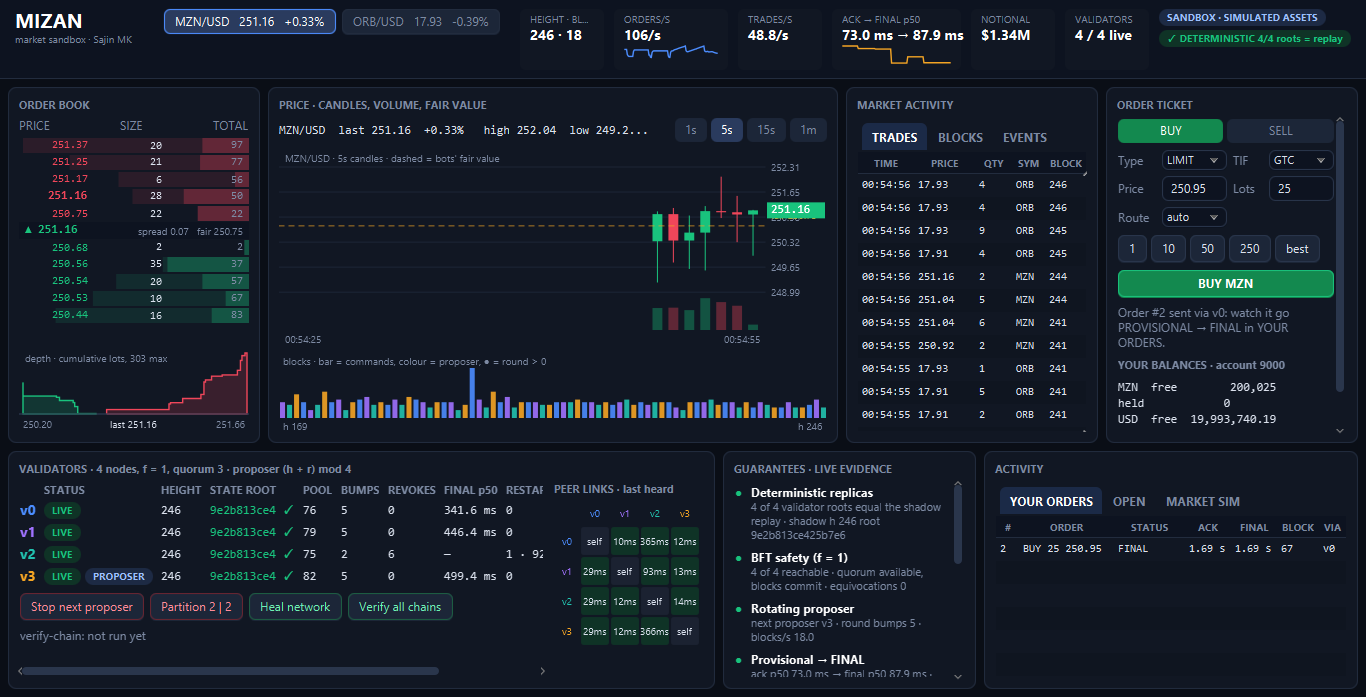
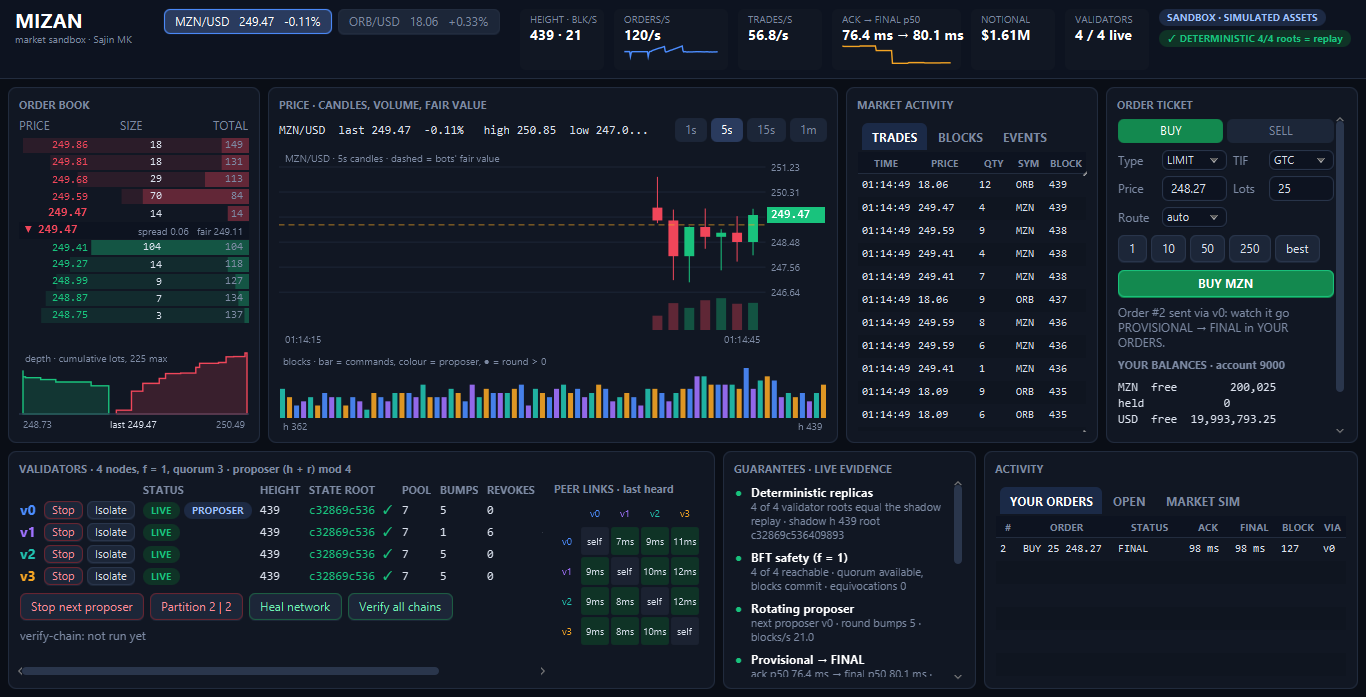
Self-test loop: build, planted regressions, sweeps, recovery, chaos, sandbox demo all pass

diff --git a/PROGRESS.md b/PROGRESS.md
@@ -191,6 +191,20 @@ Note: M2 landed as one commit ("Milestone 2 completed") rather than one commit p
 
 "A stranger runs the 4-node demo from the README" **needs a human**. Earlier gates were re-run in the final self-test loop (below).
 
+## Final self-test loop (2026-10-19, on `94af153`)
+Pass 1:
+- `./gradlew clean build`: passed in 2m 46s (all unit tests, Spotless, Error Prone, JaCoCo gates, `checkModuleGraph`: 42 edges allowed).
+- `scripts/verify-regressions.sh`: 13 of 13 planted defects caught by their named tests (11 earlier plus "peer auth" and "md subscriber cap").
+- `simSweep -Pseeds=200`: consensus sweep 200 × 5 and fault matrix 200 × 6 all passed; 114,584 mangled messages injected.
+- `recoveryTest -Piter=20`: 20 kill -9 cycles over every fault point; 77,370 client FINALs verified; 3,642 torn bytes truncated.
+- `chaosTest -Pminutes=3`: 10 kills, 5 partitions, 5 isolations; 3,483 client FINALs all matched; identical hash and root at all 916 heights; verify-chain OK on all 4.
+
+Pass 2:
+- `simSweep --rerun`: re-ran, same deterministic results.
+- `:mizan-ui:run --demo --screenshot`: the order went FINAL at block 127 in 98 ms; the next proposer was stopped and restarted; 4/4 validators live; 4/4 roots equal the replay ([screenshot](docs/images/sandbox-terminal.png)).
+
+Nothing failed in either pass. The long nightly settings (jqwik 100k, 1M fuzz cases, 1,000 seeds, 200 recovery iterations, 30-minute chaos) last passed on the dates in their gate sections above.
+
 ## Known issues / deferred
 - M5 UI not visually verified (see Gate M5).
 - Result-cache rebuild covers only blocks replayed after the newest snapshot (ADR 0013).
